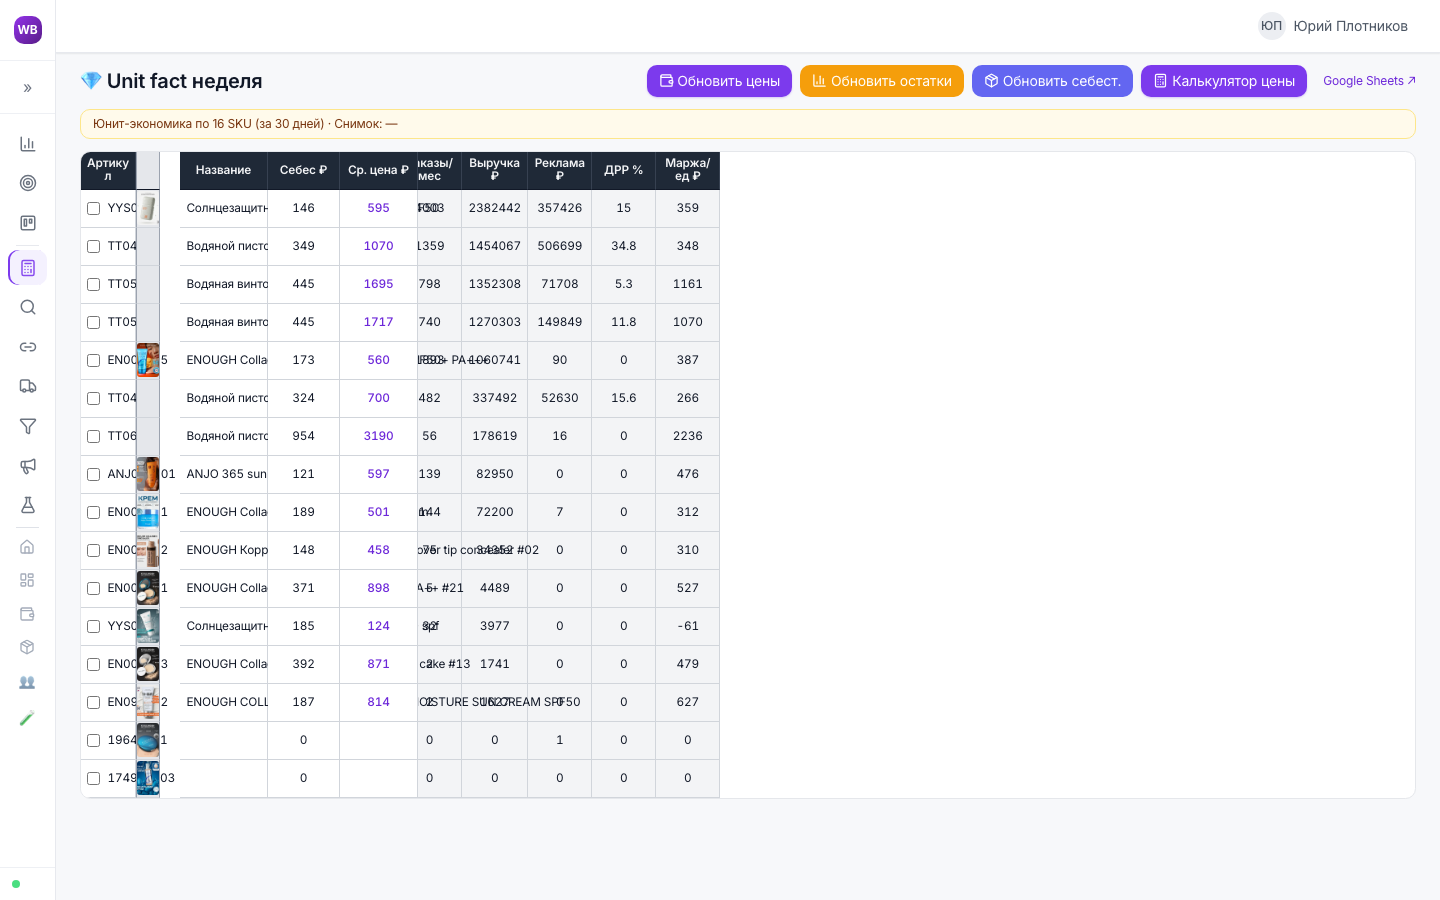
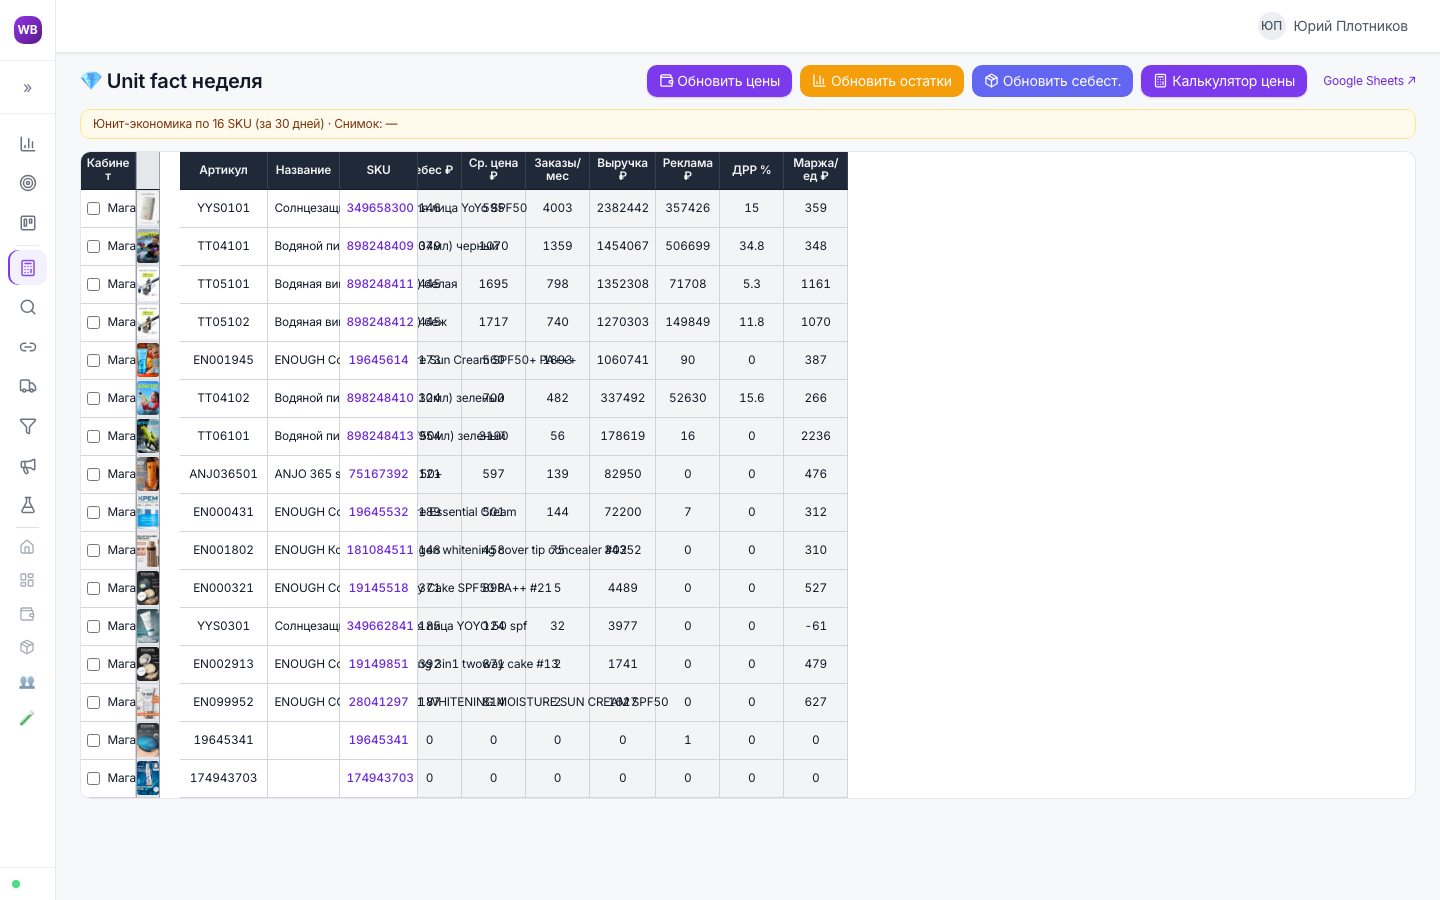
Fix WB card image baskets (vol>4560) + unit table column schema
- cardImage: расширена таблица VOL_RANGES каноническими границами WB до
  basket-55 (vol>4560 шёл по кривой эвристике 215/баскет → битые фото у
  nmId вроде 898248xxx, реально basket-39). Запасная формула шаг 316.
- unit/table: схема выровнена под inferno sticky-5 (Кабинет·Фото·Артикул·
  Название·SKU), col4=nmId как ссылка на карточку — раньше колонки разъезжались
  и цена рендерилась ссылкой.

diff --git a/app/api/unit/table/route.ts b/app/api/unit/table/route.ts
@@ -40,10 +40,14 @@ export async function GET() {
     const avgPrice = orders > 0 ? Math.round(rev / orders) : 0;
     const drr = rev > 0 ? Math.round((ad / rev) * 1000) / 10 : 0;
     const marginUnit = orders > 0 ? Math.round(avgPrice - cost - ad / orders) : 0;
+    // Схема inferno: первые 5 колонок sticky (Кабинет·Фото·Артикул·Название·SKU),
+    // col 1 = фото (пустой заголовок → разделитель), col 4 = nmId (ссылка на карточку).
     rows.push([
-      r.article || String(r.nm_id),
-      "", // фото (col index 1)
-      nameByArt.get(r.article) || "",
+      "Магазин", // 0 Кабинет (рядом с чекбоксом)
+      "", // 1 Фото
+      r.article || String(r.nm_id), // 2 Артикул
+      nameByArt.get(r.article) || "", // 3 Название
+      r.nm_id, // 4 SKU → ссылка на карточку WB
       Math.round(cost),
       avgPrice,
       orders,
@@ -56,7 +60,7 @@ export async function GET() {
   }
 
   return NextResponse.json({
-    headers: ["Артикул", "", "Название", "Себес ₽", "Ср. цена ₽", "Заказы/мес", "Выручка ₽", "Реклама ₽", "ДРР %", "Маржа/ед ₽"],
+    headers: ["Кабинет", "", "Артикул", "Название", "SKU", "Себес ₽", "Ср. цена ₽", "Заказы/мес", "Выручка ₽", "Реклама ₽", "ДРР %", "Маржа/ед ₽"],
     rows,
     img_urls,
     source_url: null,

diff --git a/lib/wb/cardImage.ts b/lib/wb/cardImage.ts
@@ -9,14 +9,20 @@ const VOL_RANGES: [number, number][] = [
   [1169, 8], [1313, 9], [1601, 10], [1655, 11], [1919, 12], [2045, 13],
   [2189, 14], [2405, 15], [2621, 16], [2837, 17], [3053, 18], [3269, 19],
   [3485, 20], [3700, 21], [3915, 22], [4130, 23], [4345, 24], [4560, 25],
+  // выше 4560 баскеты идут шагом ~316 vol
+  [4877, 26], [5193, 27], [5509, 28], [5825, 29], [6141, 30], [6457, 31],
+  [6773, 32], [7089, 33], [7405, 34], [7721, 35], [8037, 36], [8353, 37],
+  [8669, 38], [8985, 39], [9301, 40], [9617, 41], [9933, 42], [10249, 43],
+  [10565, 44], [10881, 45], [11197, 46], [11513, 47], [11829, 48], [12145, 49],
+  [12461, 50], [12777, 51], [13093, 52], [13409, 53], [13725, 54], [14041, 55],
 ];
 
 function estimateBasket(vol: number): number {
   for (const [max, basket] of VOL_RANGES) {
     if (vol <= max) return basket;
   }
-  // за пределами таблицы — грубая оценка (~215 vol на баскет)
-  return 25 + Math.ceil((vol - 4560) / 215);
+  // за пределами таблицы — оценка тем же шагом ~316 vol на баскет
+  return 55 + Math.ceil((vol - 14041) / 316);
 }
 
 /** Синхронный best-effort URL фото карточки (без HEAD-проверки) — для списков. */
